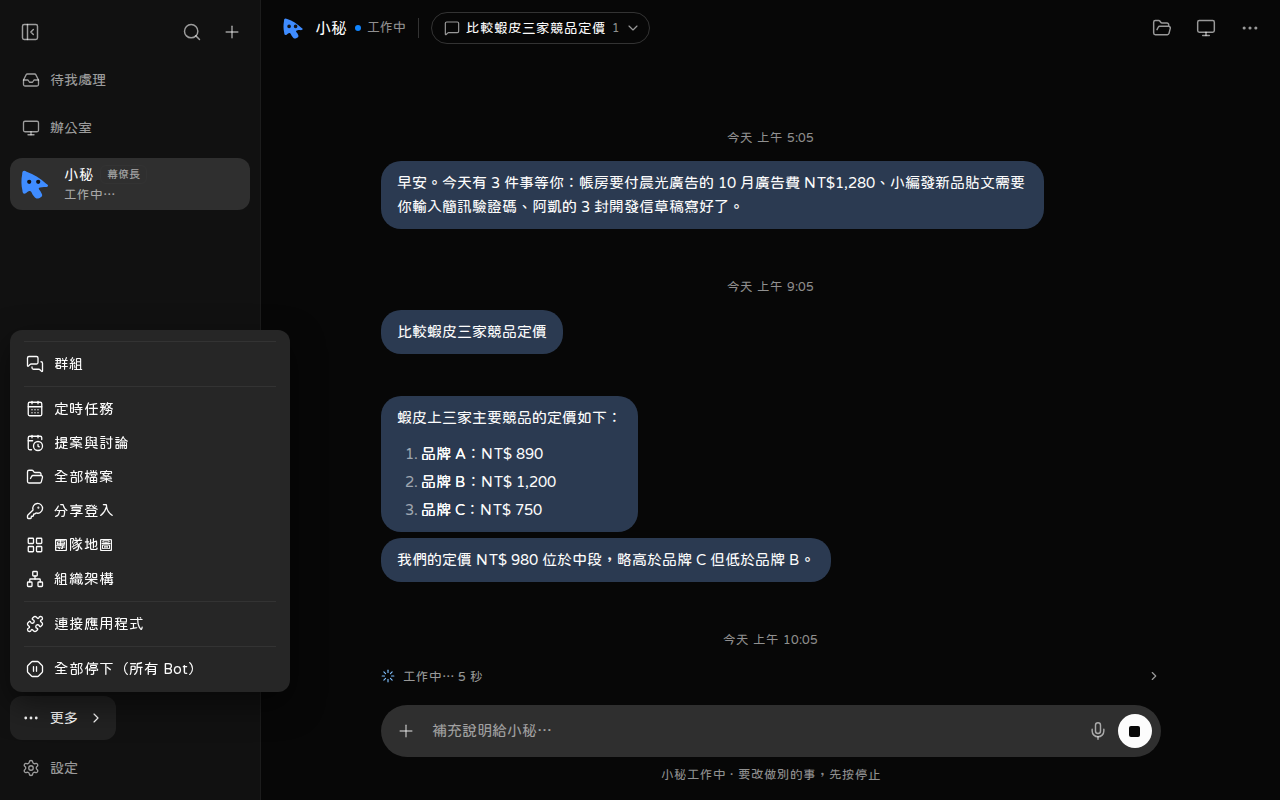
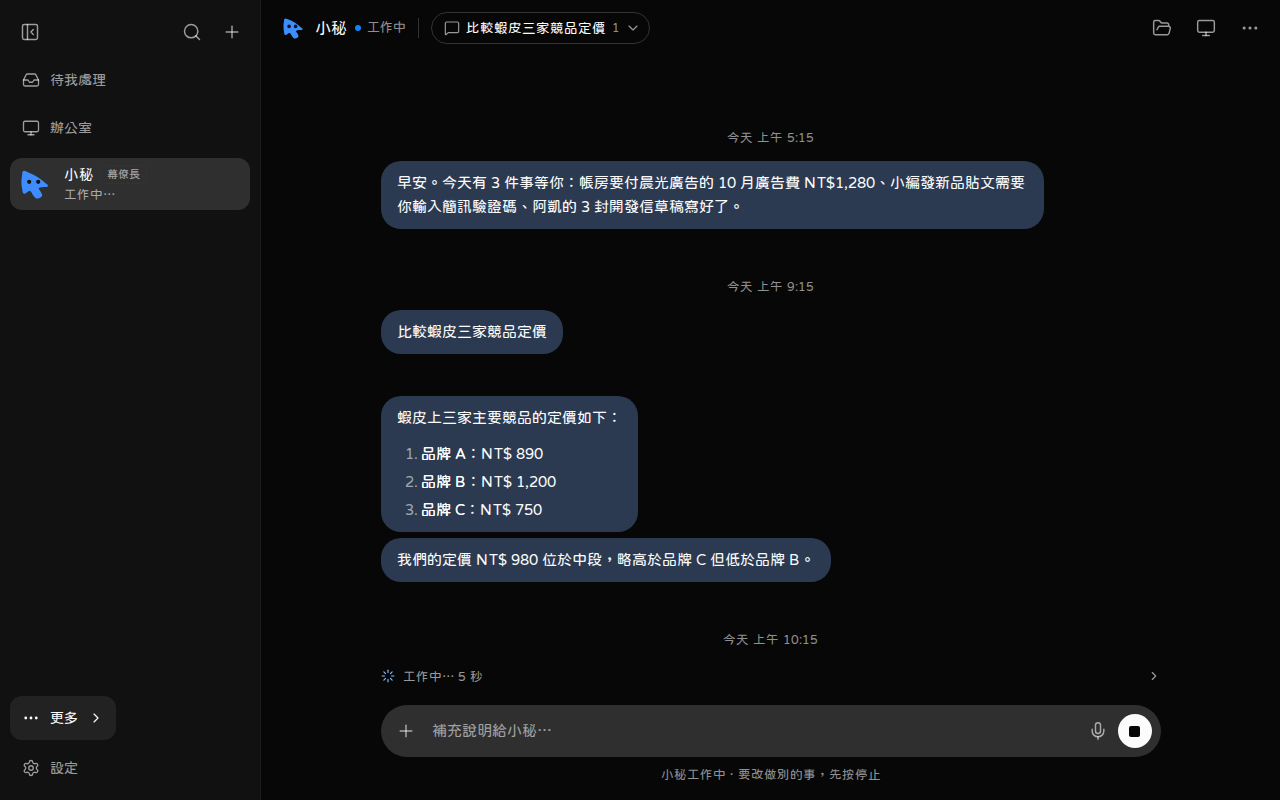
Fix UI screenshots: seed data on master, close 更多 menu except in shot 02
- Recaptured before (master) screenshots with proper seeded demo data
  (previous shots showed onboarding screen only)
- Fixed after (branch) screenshots to close 更多 menu in shots 01, 03, 04
  (menu now only open in shot 02 as intended)
- All 8 screenshots now show real UI with distinct content
- Verified all 8 have unique SHA256 hashes
- Updated docs/ui/before and docs/ui/after
- Copied to /opt/cursor/artifacts/ui-screenshots-{before,after}/

diff --git a/web/e2e/ui-screenshots.spec.ts b/web/e2e/ui-screenshots.spec.ts
@@ -60,6 +60,12 @@ test('capture UI screenshots with seeded data', async ({ page }) => {
   await page.screenshot({ path: 'e2e-results/screens/ui-02-sidebar-more-open.png', fullPage: false })
   console.log('✓ Captured: 02-sidebar-more-open.png')
 
+  // Close 更多 menu for remaining screenshots
+  if (await moreButton.isVisible({ timeout: 1000 }).catch(() => false)) {
+    await moreButton.click()
+    await settle(page)
+  }
+
   // 3. WorkSteps in progress
   // Start a new task to show work in progress
   const box = main.getByRole('textbox')
